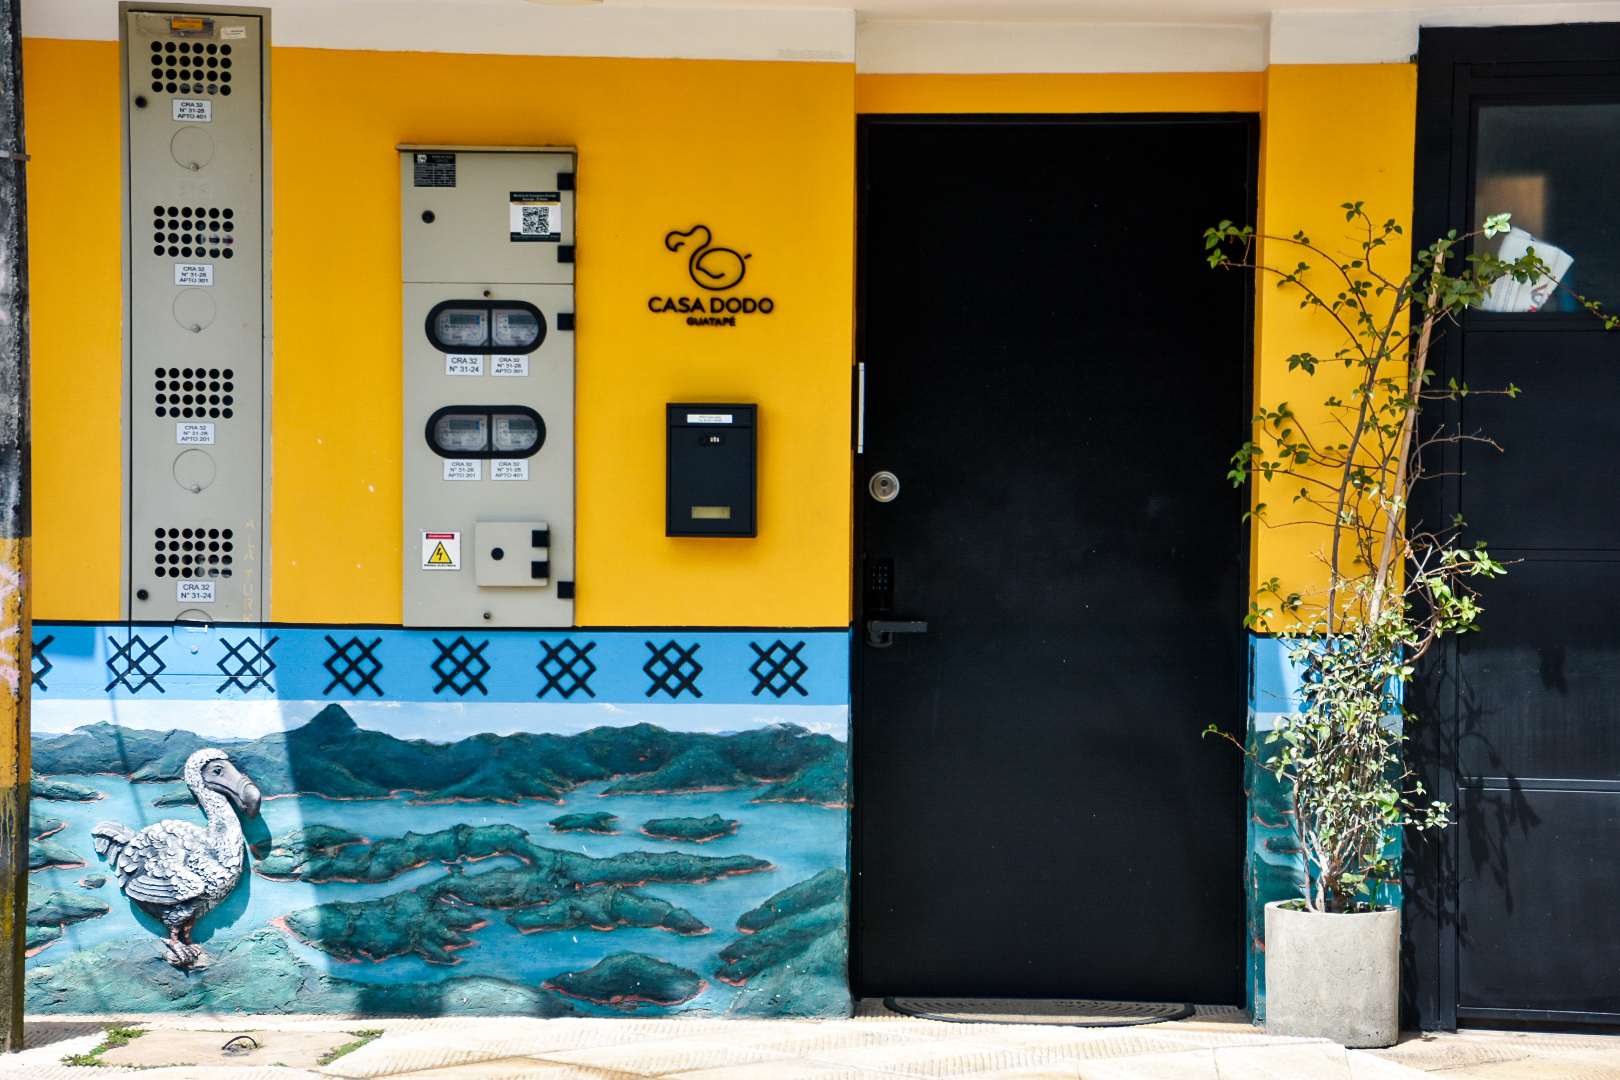
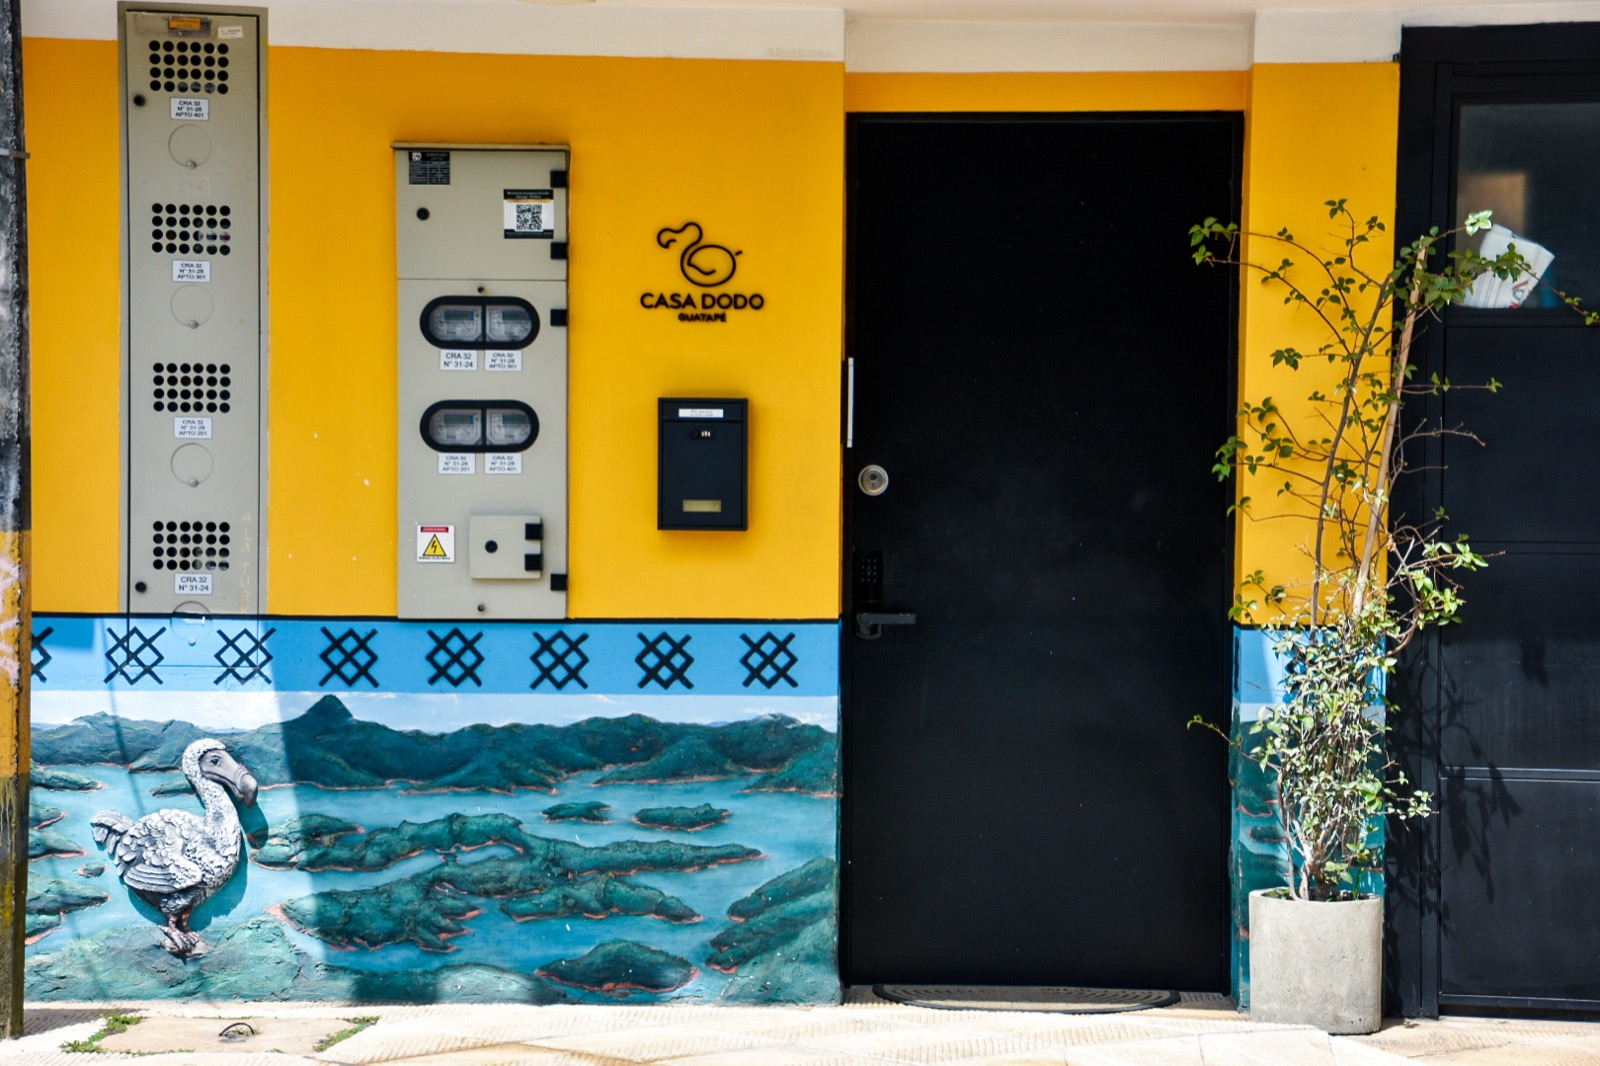
perf: WebP images, lazy gallery, hamburger nav, mobile book button
- Convert all 115 images to WebP (quality 95) and update all references
- Resize 3 hero images from 2560/1920/1620px to 1600px max width
- Remove hidden thumbnail img tags from gallery mosaic (39 fewer image loads)
- Add hamburger menu with dropdown for internal navigation links
- Mobile: show calendar icon instead of Book Now text, square button
- Fix hamburger button styling (override theme border-radius)
- Update og:image dimensions to match resized hero (1600x1107)

Changed region(s): [[0.8125, 0.6191, 0.875, 0.6501], [0.875, 0.5572, 0.9062, 0.5882], [0.125, 0.6191, 0.1562, 0.6501]]

diff --git a/themes/hugo-story/layouts/partials/menu.html b/themes/hugo-story/layouts/partials/menu.html
@@ -4,23 +4,28 @@
             <img src="{{ .Site.Params.logo | relURL }}" alt="Logo">
         </div>
         <div class="menu-right">
-            <div class="language-switcher">
-                {{ $currentLang := $.Site.Language.Lang }}
-                {{ range .Site.Languages }}
-                    {{ if ne $currentLang .Lang }}
-                        <a href="{{ printf "/%s/" .Lang }}">
-                            <img src="{{ printf "/images/flags/%s.png" .Lang | relURL }}" alt="{{ .LanguageName }} flag" class="flag-icon">
-                            <span>{{ .Lang }}</span>
-                        </a>
+            <div class="menu-group">
+                <div class="language-switcher">
+                    {{ $currentLang := $.Site.Language.Lang }}
+                    {{ range .Site.Languages }}
+                        {{ if ne $currentLang .Lang }}
+                            <a href="{{ printf "/%s/" .Lang }}">
+                                <img src="{{ printf "/images/flags/%s.png" .Lang | relURL }}" alt="{{ .LanguageName }} flag" class="flag-icon">
+                                <span>{{ .Lang }}</span>
+                            </a>
+                        {{ end }}
                     {{ end }}
-                {{ end }}
+                </div>
+                <button class="hamburger" aria-label="Menu" aria-expanded="false">
+                    <span></span>
+                    <span></span>
+                    <span></span>
+                </button>
             </div>
-            <button class="hamburger" aria-label="Menu" aria-expanded="false">
-                <span></span>
-                <span></span>
-                <span></span>
-            </button>
-            <a href="{{ i18n "bookNowLink" }}" class="book-now-button" target="_blank">{{ i18n "bookNow" }}</a>
+            <a href="{{ i18n "bookNowLink" }}" class="book-now-button" target="_blank">
+                <i class="fas fa-calendar-check book-now-icon"></i>
+                <span class="book-now-text">{{ i18n "bookNow" }}</span>
+            </a>
         </div>
     </div>
     <div class="menu-dropdown">

diff --git a/themes/hugo-story/layouts/partials/head.html b/themes/hugo-story/layouts/partials/head.html
@@ -19,9 +19,9 @@
 	<meta property="og:title" content="{{ i18n "seoTitle" }}">
 	<meta property="og:description" content="{{ i18n "metaDescription" }}">
 	<meta property="og:url" content="{{ .Permalink }}">
-	<meta property="og:image" content="{{ .Site.BaseURL }}images/casadodo/casadodofullside.jpg">
-	<meta property="og:image:width" content="2560">
-	<meta property="og:image:height" content="1772">
+	<meta property="og:image" content="{{ .Site.BaseURL }}images/casadodo/casadodofullside.webp">
+	<meta property="og:image:width" content="1600">
+	<meta property="og:image:height" content="1107">
 	<meta property="og:image:alt" content="Casa Dodo Guatapé boutique apartments with lake panorama view">
 	{{ if eq .Site.Language.Lang "en" }}<meta property="og:locale" content="en_US">
 	{{ else if eq .Site.Language.Lang "es" }}<meta property="og:locale" content="es_CO">
@@ -35,7 +35,7 @@
 	<meta name="twitter:card" content="summary_large_image">
 	<meta name="twitter:title" content="{{ i18n "seoTitle" }}">
 	<meta name="twitter:description" content="{{ i18n "metaDescription" }}">
-	<meta name="twitter:image" content="{{ .Site.BaseURL }}images/casadodo/casadodofullside.jpg">
+	<meta name="twitter:image" content="{{ .Site.BaseURL }}images/casadodo/casadodofullside.webp">
 
 	<!-- hreflang Tags -->
 	{{ range .Sites }}
@@ -79,7 +79,7 @@
 			"url": "https://casadodoguatape.com",
 			"logo": "{{ .Site.BaseURL }}{{ .Site.Params.logo }}",
 			"image": [
-				"https://casadodoguatape.com/images/casadodo/casadodofullside.jpg"
+				"https://casadodoguatape.com/images/casadodo/casadodofullside.webp"
 			],
 			"description": "{{ i18n "metaDescription" | safeJS }}",
 			"telephone": "+573137317997",

diff --git a/themes/hugo-story/layouts/partials/gallery-mosaic.html b/themes/hugo-story/layouts/partials/gallery-mosaic.html
@@ -29,16 +29,15 @@
                     {{ end }}
                     {{ if not $inMosaic }}
                     <article style="display:none">
-                        <a href="{{ $pic.src | relURL }}" class="image">
-                            <img src="{{ $pic.thumb | relURL }}" alt="{{ $pic.alt }}" loading="lazy" />
-                        </a>
+                        <a href="{{ $pic.src | relURL }}" class="image"></a>
                     </article>
                     {{ end }}
                 {{ end }}
             {{ else }}
                 {{- /* Fallback: first 5 images */ -}}
                 {{ range $i, $pic := $pictures }}
-                <article{{ if eq $i 0 }} class="mosaic-hero"{{ else if lt $i 5 }} class="mosaic-thumb"{{ end }}{{ if ge $i 5 }} style="display:none"{{ end }}>
+                {{ if lt $i 5 }}
+                <article{{ if eq $i 0 }} class="mosaic-hero"{{ else }} class="mosaic-thumb"{{ end }}>
                     <a href="{{ $pic.src | relURL }}" class="image">
                         <img src="{{ if eq $i 0 }}{{ $pic.src | relURL }}{{ else }}{{ $pic.thumb | relURL }}{{ end }}" alt="{{ $pic.alt }}" loading="lazy" />
                     </a>
@@ -46,6 +45,11 @@
                         <span class="mosaic-more">+{{ sub $total 5 }} photos</span>
                     {{ end }}
                 </article>
+                {{ else }}
+                <article style="display:none">
+                    <a href="{{ $pic.src | relURL }}" class="image"></a>
+                </article>
+                {{ end }}
                 {{ end }}
             {{ end }}
         </div>

diff --git a/themes/hugo-story/assets/css/own.css b/themes/hugo-story/assets/css/own.css
@@ -53,6 +53,9 @@
   vertical-align: middle;
 }
 
+.book-now-icon {
+  display: none;
+}
 .book-now-button {
   background-color: red;
   color: white;
@@ -374,7 +377,21 @@
 
   /* Keep "Book Now" button on the right */
   .book-now-button {
-    margin-left: auto;
+    margin-left: 0.5rem;
+    width: 36px;
+    height: 36px;
+    padding: 0;
+    font-size: 1rem;
+    display: flex;
+    align-items: center;
+    justify-content: center;
+    border-radius: 4px;
+  }
+  .book-now-text {
+    display: none;
+  }
+  .book-now-icon {
+    display: inline;
   }
 
   /* Adjust menu-right to occupy full width */
@@ -806,6 +823,16 @@
 /* =============================================
    Hamburger Menu
    ============================================= */
+.menu-group {
+    display: flex;
+    align-items: center;
+    gap: 0.5rem;
+}
+@media (max-width: 768px) {
+    .menu-group {
+        gap: 0;
+    }
+}
 .hamburger {
     display: flex;
     flex-direction: column;
@@ -813,11 +840,17 @@
     gap: 5px;
     width: 32px;
     height: 32px;
+    min-width: 32px;
+    min-height: 32px;
     background: none;
     border: none;
+    border-radius: 0;
     cursor: pointer;
     padding: 4px;
-    margin-left: 1rem;
+    line-height: normal;
+    letter-spacing: normal;
+    text-transform: none;
+    max-width: none;
 }
 .hamburger span {
     display: block;
